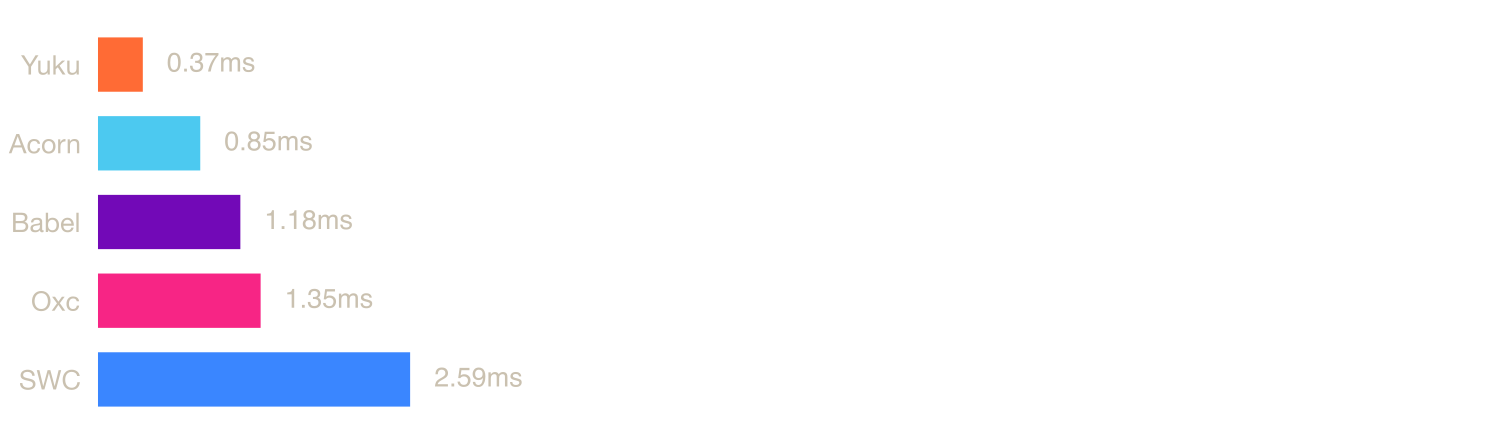
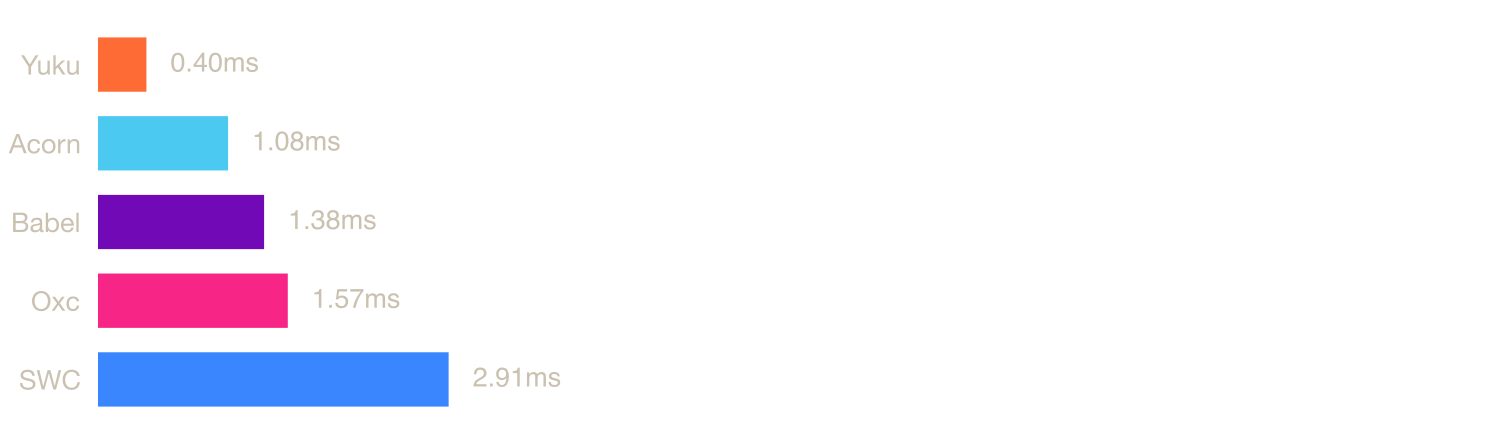
update parsers

diff --git a/README.md b/README.md
@@ -7,9 +7,9 @@ Benchmarks for ECMAScript parsers available as npm packages, including pure Java
 | Property | Value |
 |----------|-------|
 | OS | macOS 24.6.0 (arm64) |
-| CPU | Apple M4 Pro (Virtual) |
-| Cores | 6 |
-| Memory | 14 GB |
+| CPU | Apple M3 |
+| Cores | 8 |
+| Memory | 16 GB |
 
 ## Parsers
 
@@ -43,11 +43,11 @@ A high-performance & spec-compliant JavaScript/TypeScript compiler written in Zi
 
 | Parser | Mean | Min | Max |
 |--------|------|-----|-----|
-| Yuku | 53.86 ms | 48.73 ms | 61.72 ms |
-| Acorn | 118.19 ms | 108.98 ms | 130.80 ms |
-| Babel | 175.97 ms | 145.26 ms | 214.71 ms |
-| Oxc | 222.85 ms | 216.29 ms | 231.65 ms |
-| SWC | 409.80 ms | 385.50 ms | 456.10 ms |
+| Yuku | 54.66 ms | 49.92 ms | 105.08 ms |
+| Acorn | 148.22 ms | 136.31 ms | 191.93 ms |
+| Babel | 190.65 ms | 147.59 ms | 288.84 ms |
+| Oxc | 281.49 ms | 264.23 ms | 352.88 ms |
+| SWC | 531.65 ms | 474.05 ms | 721.29 ms |
 
 ### [three.js](https://raw.githubusercontent.com/yuku-toolchain/parser-benchmark-files/refs/heads/main/three.js)
 
@@ -57,11 +57,11 @@ A high-performance & spec-compliant JavaScript/TypeScript compiler written in Zi
 
 | Parser | Mean | Min | Max |
 |--------|------|-----|-----|
-| Yuku | 15.99 ms | 13.26 ms | 19.78 ms |
-| Acorn | 27.64 ms | 24.16 ms | 32.07 ms |
-| Babel | 37.90 ms | 31.90 ms | 44.69 ms |
-| Oxc | 44.33 ms | 41.81 ms | 49.35 ms |
-| SWC | 75.38 ms | 72.08 ms | 78.92 ms |
+| Yuku | 17.26 ms | 15.77 ms | 22.12 ms |
+| Acorn | 32.06 ms | 29.02 ms | 51.93 ms |
+| Babel | 38.88 ms | 29.98 ms | 64.64 ms |
+| Oxc | 52.46 ms | 49.46 ms | 73.41 ms |
+| SWC | 90.32 ms | 86.55 ms | 110.35 ms |
 
 ### [react.js](https://raw.githubusercontent.com/yuku-toolchain/parser-benchmark-files/refs/heads/main/react.js)
 
@@ -71,11 +71,11 @@ A high-performance & spec-compliant JavaScript/TypeScript compiler written in Zi
 
 | Parser | Mean | Min | Max |
 |--------|------|-----|-----|
-| Yuku | 0.37 ms | 0.30 ms | 3.91 ms |
-| Acorn | 0.85 ms | 0.71 ms | 4.44 ms |
-| Babel | 1.18 ms | 0.73 ms | 4.90 ms |
-| Oxc | 1.35 ms | 1.18 ms | 5.35 ms |
-| SWC | 2.59 ms | 2.20 ms | 7.19 ms |
+| Yuku | 0.40 ms | 0.35 ms | 7.51 ms |
+| Acorn | 1.08 ms | 0.95 ms | 15.79 ms |
+| Babel | 1.38 ms | 0.93 ms | 5.86 ms |
+| Oxc | 1.57 ms | 1.50 ms | 5.96 ms |
+| SWC | 2.91 ms | 2.75 ms | 7.44 ms |
 
 ## Run Benchmarks
 
